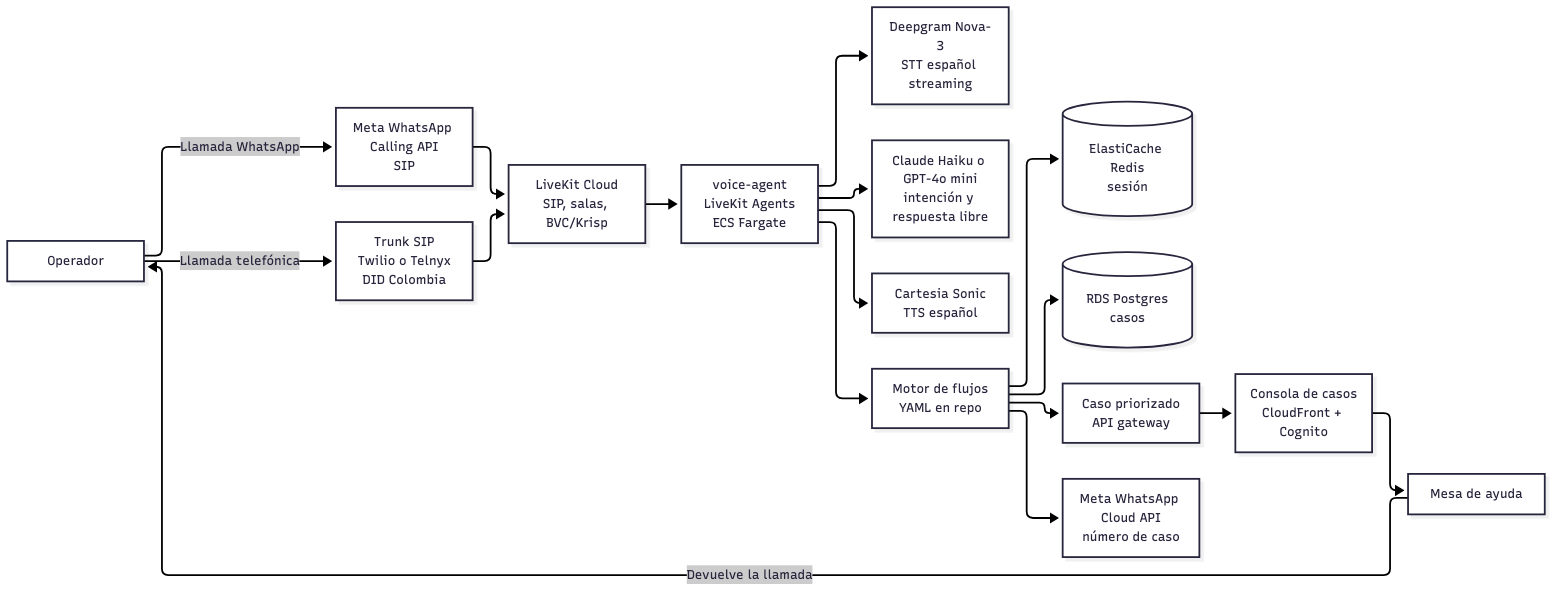
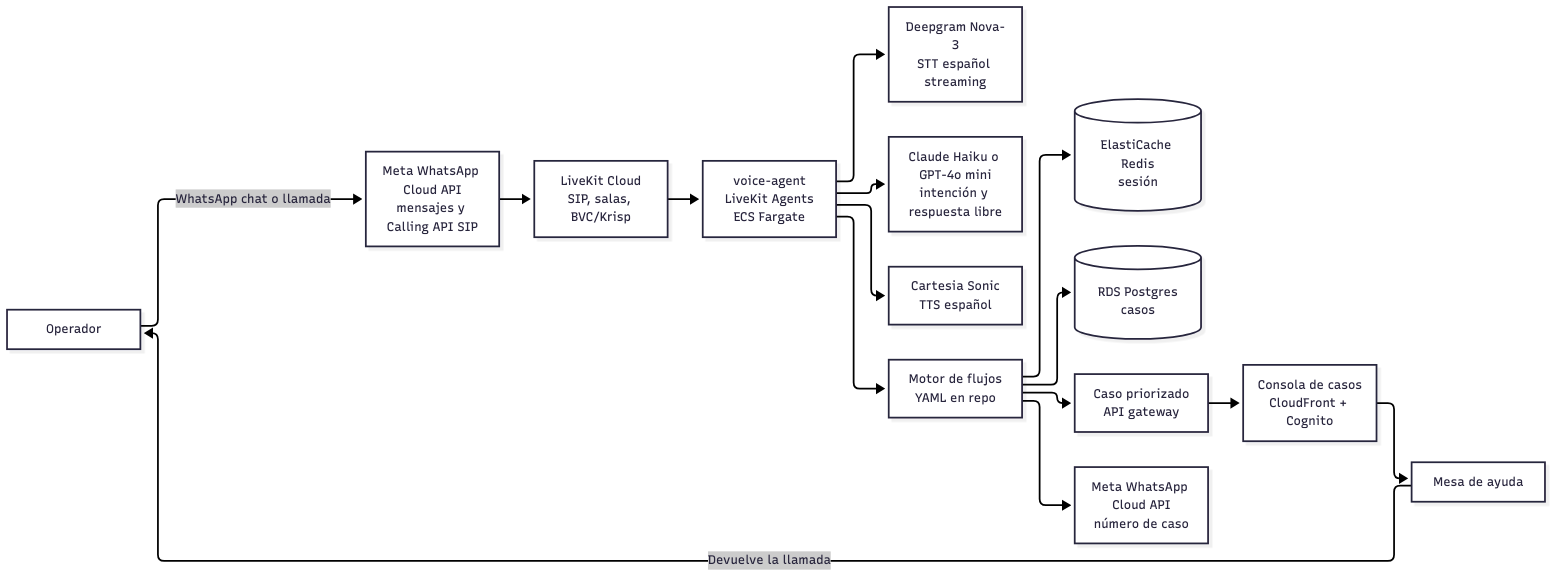
Dejar WhatsApp como único canal de entrada (chat y llamada).
Elimina número telefónico, trunk SIP y DID de diagramas, arquitectura y costos (~US$ 300/mes).

diff --git a/docs/analisis-agente-voz.md b/docs/analisis-agente-voz.md
@@ -12,7 +12,7 @@ El operador está frente a una tableta que no conecta, no enciende o no lo deja 
 
 | Pregunta | Respuesta | Qué cambia |
 | --- | --- | --- |
-| ¿Con qué se comunica el operador? | Celular con minutos y datos. | Entran las dos vías: llamada de WhatsApp y número telefónico. |
+| ¿Con qué se comunica el operador? | Celular con minutos y datos. | Un solo canal: WhatsApp (chat y llamada de voz). |
 | ¿La mesa transfiere llamadas? | No. Atiende los casos directamente. | El agente no depende de una transferencia. Escala con un caso priorizado y la mesa devuelve la llamada. |
 | ¿El audio puede ir a la nube? | Sí, si no es información sensible. | LiveKit Cloud y proveedores en nube. La huella nunca entra; la cédula no pasa por el modelo. |
 
@@ -24,14 +24,7 @@ No es un IVR de menús ni un chat leído en voz alta. Hay tres cosas que lo hace
 
 ## Cómo llega la llamada
 
-Los operadores tienen minutos y datos, así que las dos entradas sirven y van al mismo agente.
-
-| Entrada | Rol | Qué implica |
-| --- | --- | --- |
-| Llamada de WhatsApp al número de soporte | **Principal.** Mismo contacto que el chat. | Meta habilita llamadas iniciadas por el usuario en Colombia y las entrega por SIP. Audio de banda ancha (Opus), sin costo de minutos. El teclado de WhatsApp manda tonos en la llamada, así que la cédula por teclado funciona. Requiere que el número tenga un límite diario de al menos 2.000 destinatarios. |
-| Llamada a un número de Colombia | **Respaldo.** Cuando los datos fallan en la zona o WhatsApp no conecta. | DID colombiano en un trunk SIP. Audio de 8 kHz, que reconoce peor. |
-
-Si el número de WhatsApp todavía no alcanza el límite de 2.000 cuando arranque la prueba, la prueba corre por el número de Colombia y WhatsApp entra en cuanto Meta lo habilite. El agente es el mismo.
+El operador usa un solo contacto de WhatsApp para el chat y para la llamada de voz. Meta habilita llamadas iniciadas por el usuario en Colombia y las entrega por SIP a LiveKit. Audio de banda ancha (Opus), sin costo de minutos. El teclado de WhatsApp manda tonos en la llamada, así que la cédula por teclado funciona. Requiere que el número de WhatsApp tenga un límite diario de al menos 2.000 destinatarios.
 
 ## Una llamada de “sin internet”
 
@@ -83,8 +76,6 @@ Prioridad del caso:
 | No llegó el correo de credenciales | Media, a Dirección de Censo |
 | El operador pidió hablar con una persona sin falla bloqueante | Normal |
 
-Más adelante, si la mesa quiere, el mismo agente puede pasar la llamada en vivo a su número actual. Técnicamente es un desvío a un número de Colombia y no le exige a la mesa una central; no entra en la prueba porque hoy no trabajan así.
-
 La mesa no tiene herramienta de casos. Se propone una consola propia sobre la misma base del agente; detalle y alternativas en [infraestructura.md](infraestructura.md#consola-de-casos).
 
 ## Arquitectura recomendada
@@ -93,10 +84,8 @@ Cadena en streaming: reconocimiento de voz, modelo y síntesis, cada etapa empez
 
 ```mermaid
 flowchart LR
-  OP[Operador] -->|Llamada WhatsApp| META[Meta SIP]
-  OP -->|Llamada telefónica| DID[DID Colombia]
+  OP[Operador] -->|WhatsApp chat o llamada| META[Meta SIP]
   META --> SIP[Servidor SIP]
-  DID --> SIP
   SIP --> AG[Agente de voz]
   AG --> STT[STT español]
   AG --> LLM[LLM: intención y lectura de respuesta]
@@ -116,10 +105,8 @@ Misma lógica que el diagrama anterior, con los productos concretos:
 
 ```mermaid
 flowchart LR
-  OP[Operador] -->|Llamada WhatsApp| META["Meta WhatsApp Calling API<br/>SIP"]
-  OP -->|Llamada telefónica| TRUNK["Trunk SIP<br/>Twilio o Telnyx<br/>DID Colombia"]
+  OP[Operador] -->|WhatsApp chat o llamada| META["Meta WhatsApp Cloud API<br/>mensajes y Calling API SIP"]
   META --> LK["LiveKit Cloud<br/>SIP, salas, BVC/Krisp"]
-  TRUNK --> LK
   LK --> VA["voice-agent<br/>LiveKit Agents<br/>ECS Fargate"]
   VA --> STT["Deepgram Nova-3<br/>STT español streaming"]
   VA --> LLM["Claude Haiku o GPT-4o mini<br/>intención y respuesta libre"]
@@ -138,9 +125,8 @@ Versión en imagen: [diagramas/arquitectura-voz-tecnologias.png](diagramas/arqui
 
 | Genérico | Tecnología | Qué hace |
 | --- | --- | --- |
-| Meta SIP | Meta WhatsApp Calling API (SIP) | Recibe la llamada que el operador inicia desde WhatsApp y la entrega por SIP al agente. Sin costo de minutos. |
-| DID Colombia | Trunk SIP — Twilio o Telnyx | Número telefónico de Colombia para quien llame sin datos o sin WhatsApp. |
-| Servidor SIP | LiveKit Cloud (SIP, salas, BVC/Krisp) | Termina la llamada, mezcla el audio, cancela ruido de fondo y conecta con el agente de voz. |
+| Meta SIP | Meta WhatsApp Calling API (SIP) | Recibe chat y llamada de voz que el operador inicia desde WhatsApp y entrega la llamada por SIP al agente. Sin costo de minutos. |
+| Servidor SIP | LiveKit Cloud (SIP, salas, BVC/Krisp) | Termina la llamada de WhatsApp, mezcla el audio, cancela ruido de fondo y conecta con el agente de voz. |
 | Agente de voz | voice-agent — LiveKit Agents en ECS Fargate | Orquesta cada llamada: escucha, interpreta, habla, lee el teclado y crea el caso. |
 | STT español | Deepgram Nova-3 | Convierte en texto, en vivo, lo que dice el operador. |
 | LLM | Claude Haiku o GPT-4o mini | Clasifica la intención inicial y traduce la respuesta libre a sí, no, no entendí o quiero una persona. |
@@ -183,7 +169,7 @@ La sesión vive en Redis por número de teléfono, con vencimiento de unas horas
 | --- | --- | --- | --- | --- |
 | **A. Cadena propia con LiveKit Agents** | Framework abierto con SIP propio, DTMF, transferencia en frío y asistida, cancelación de ruido. STT, LLM y TTS intercambiables. | Control del flujo, texto en cada turno para auditar y enmascarar, cambio de proveedor sin reescribir. Corre en LiveKit Cloud o en la VPC. | Más piezas que operar que una plataforma cerrada. | **Recomendada para el piloto.** |
 | B. Cadena propia con Pipecat | Framework abierto, pipeline más bajo nivel. | Muy flexible. | Sin servidor SIP propio; por WebSocket del operador no trae transferencias. Para SIP termina apoyándose en Daily o LiveKit. | Alternativa si el equipo ya lo conoce. |
-| C. Voz a voz (gpt-realtime-1.5, Gemini 3.1 Flash Live, Nova 2 Sonic) | Un solo modelo recibe audio y responde audio. | Conversación muy natural, interrupciones finas. Nova 2 Sonic corre en Bedrock y soporta español. | Entrenados con audio web; por teléfono de 8 kHz reconocen peor. No hay texto intermedio para controlar lo que se dice ni para enmascarar. Más caro por minuto. | Experimento, sobre todo para la entrada por WhatsApp. No para el árbol de pasos. |
+| C. Voz a voz (gpt-realtime-1.5, Gemini 3.1 Flash Live, Nova 2 Sonic) | Un solo modelo recibe audio y responde audio. | Conversación muy natural, interrupciones finas. Nova 2 Sonic corre en Bedrock y soporta español. | No hay texto intermedio para controlar lo que se dice ni para enmascarar. Más caro por minuto. | Experimento. No para el árbol de pasos. |
 | D. Plataforma administrada (Retell, Vapi, ElevenLabs Agents) | Se configura el agente en un panel y se conecta un número. | Demo funcionando en días. | El árbol queda dentro del producto, el audio y la transcripción en su nube, menos margen para la espera activa y la continuidad con WhatsApp. | Demo para el cliente antes de construir, si hace falta mostrar algo ya. |
 | E. IVR clásico solo con teclado | Árbol de opciones por DTMF en Asterisk o Amazon Connect. | Robusto en ruido, barato, sin IA. | No acompaña; el operador navega menús. | Modo de respaldo dentro del agente, no producto aparte. |
 
@@ -191,7 +177,7 @@ La A se queda con lo bueno de la E: si el reconocimiento falla dos veces seguida
 
 ## Proveedores de voz
 
-La latencia de punta a punta por teléfono, medida en llamadas reales, anda alrededor de 1,3 s en las plataformas conocidas. Por encima de 1,5 s el operador siente que nadie lo escucha. La síntesis suele ser el cuello de botella, no el modelo.
+La latencia de punta a punta en una llamada de WhatsApp, medida en llamadas reales, anda alrededor de 1,3 s en las plataformas conocidas. Por encima de 1,5 s el operador siente que nadie lo escucha. La síntesis suele ser el cuello de botella, no el modelo.
 
 | Etapa | Candidatos | Criterio |
 | --- | --- | --- |
@@ -247,7 +233,7 @@ Semana 1:
 
 Semana 2:
 
-- Número de Colombia en el agente; llamada de WhatsApp en cuanto Meta la habilite en el número.
+- Número de WhatsApp con llamadas habilitadas hacia LiveKit.
 - Cédula por teclado, espera activa, escalamiento con caso priorizado y número de caso por WhatsApp.
 - Un caso de prueba que la mesa recibe y devuelve, para medir el circuito completo.
 - Diez llamadas en un ambiente ruidoso, medidas con los indicadores de arriba.

diff --git a/docs/infraestructura.md b/docs/infraestructura.md
@@ -8,12 +8,10 @@ Qué hay que tener encendido para el asistente de WhatsApp, el agente de voz y l
 flowchart LR
   subgraph CAMPO["Puesto de inscripción"]
     OPW["Operador<br/>WhatsApp: chat y llamada"]
-    OPT["Operador<br/>llamada telefónica"]
   end
 
-  subgraph CANAL["Canales"]
+  subgraph CANAL["Canal WhatsApp"]
     META["Meta WhatsApp Cloud API<br/>mensajes y llamadas por SIP"]
-    TRUNK["Trunk SIP<br/>número de Colombia"]
     LK["LiveKit Cloud<br/>SIP, salas, ruido"]
   end
 
@@ -43,11 +41,9 @@ flowchart LR
   end
 
   OPW --> META
-  OPT --> TRUNK
   META -->|webhook| ALB --> GW --> SQS --> WRK
   WRK -->|respuestas| META
   META -->|llamada SIP| LK
-  TRUNK --> LK
   LK <-->|audio| VA
   VA --> IA
   WRK --> LLM
@@ -74,8 +70,7 @@ En el dibujo no aparecen Secrets Manager, CloudWatch ni el NAT Gateway, que usan
 | `worker` (ECS Fargate) | Corre la conversación de WhatsApp: motor de flujos, clasificación con el LLM, envío de respuestas, creación de casos. | Escala con la cola, no con el tráfico HTTP. |
 | `voice-agent` (ECS Fargate) | Proceso de LiveKit Agents. Cada llamada es una sesión: escucha, interpreta, habla, lee el teclado, crea el caso. | Se conecta hacia LiveKit Cloud por WebSocket saliente, así que no necesita puertos abiertos ni IP pública. |
 | Motor de flujos | Librería compartida por `worker` y `voice-agent`. Lee los YAML de los tres casos. | Un solo árbol para chat y voz. |
-| LiveKit Cloud | Recibe el SIP de Meta y del trunk, mezcla audio, cancela ruido y despacha la llamada a un `voice-agent` libre. | Evita operar un servidor SIP y media propio en el piloto. |
-| Trunk SIP | Número de Colombia para quien llame sin WhatsApp. | Twilio, Telnyx, Plivo o un operador local; se elige por precio del DID y cobertura. |
+| LiveKit Cloud | Recibe el SIP de las llamadas de WhatsApp, mezcla audio, cancela ruido y despacha la llamada a un `voice-agent` libre. | Evita operar un servidor SIP y media propio en el piloto. |
 | ElastiCache Redis | Sesión por teléfono: caso, paso, intentos. Vence en horas. | Permite retomar si la llamada se corta o si pasa del chat a la voz. |
 | RDS Postgres | Casos, historial enmascarado, versiones de flujos, métricas. | Una sola base para agente, consola e indicadores. |
 | S3 | Fotos de WhatsApp y audio presintetizado de cada paso. Retención acotada. | Los pasos fijos se sintetizan una vez y no suman latencia. |
@@ -103,7 +98,7 @@ Lo que tiene la consola en el piloto:
 - Cola ordenada por prioridad y por tiempo esperando.
 - Detalle del caso: puesto, número que llamó, cédula enmascarada, síntoma, pasos intentados, transcripción y fotos.
 - Tomar el caso, para que dos personas no llamen al mismo operador.
-- Botón de llamar, que abre la llamada normal o la de WhatsApp desde el celular de la mesa. No hace falta telefonía nueva.
+- Botón de llamar por WhatsApp desde el celular de la mesa.
 - Cerrar con causa (resuelto en la llamada, tableta reemplazada, enviado a Censo) y notas.
 - Aviso en el navegador y por correo cuando entra un caso alto.
 - Rol de Dirección de Censo: solo ve los casos de huella y credenciales.
@@ -142,7 +137,7 @@ flowchart LR
   GHA --> AUD["Síntesis de pasos<br/>audios a S3"]
 ```
 
-Dos ambientes: `dev`, compartido y con números de prueba, y `piloto`, con el número real de WhatsApp y el DID. Cuando procesos cambia el texto de un paso, el pipeline vuelve a sintetizar ese audio.
+Dos ambientes: `dev`, compartido y con número de prueba de WhatsApp, y `piloto`, con el número real de WhatsApp y llamadas habilitadas. Cuando procesos cambia el texto de un paso, el pipeline vuelve a sintetizar ese audio.
 
 ## Fuera del piloto
 

diff --git a/docs/costos.md b/docs/costos.md
@@ -2,6 +2,8 @@
 
 Estimación para 15 operadores en campo. Precios de lista consultados el 5 de octubre de 2026, en dólares, sin impuestos, sin desarrollo y sin el ambiente `dev`. Infraestructura en [infraestructura.md](infraestructura.md).
 
+Canal único: **WhatsApp** (chat y llamada de voz). Sin número telefónico ni trunk SIP.
+
 ## Supuestos
 
 | Supuesto | Valor |
@@ -10,10 +12,9 @@ Estimación para 15 operadores en campo. Precios de lista consultados el 5 de oc
 | Días de jornada al mes | 22 |
 | Incidencias por operador por día | 2 |
 | Incidencias al mes | ≈ 660 |
-| Por llamada / por chat | 50 % / 50 % |
+| Por llamada de WhatsApp / por chat | 50 % / 50 % |
 | Duración media de una llamada | 6 min |
 | Minutos de voz al mes | ≈ 2.000 |
-| Llamadas que entran por el número de Colombia | 25 % (≈ 500 min) |
 | Mensajes salientes por conversación de chat | ≈ 12 |
 
 ## Tabla
@@ -36,33 +37,31 @@ Estimación para 15 operadores en campo. Precios de lista consultados el 5 de oc
 | Deepgram Nova-3 streaming | 2.000 min × 0,0077 | 15 |
 | LLM chico | ≈ 9.000 clasificaciones de ≈ 1.000 tokens | 10 |
 | Cartesia, plan Pro | Solo frases dinámicas; los pasos van presintetizados | 7 |
-| **Telefonía y WhatsApp** | | **≈ 62** |
-| Número de Colombia | Alquiler (Twilio 14, Telnyx 13,50) | 14 |
-| Minutos por el número de Colombia | 500 min × 0,09 (entrante Twilio) | 45 |
+| **WhatsApp** | | **≈ 3** |
 | Llamadas de WhatsApp iniciadas por el operador | Sin costo para la empresa | 0 |
 | Mensajes de WhatsApp | 1.000 gratis por número al mes; luego 0,0008 en Colombia | 3 |
-| **Total** | | **≈ 360** |
+| **Total** | | **≈ 300** |
 
-Con un cambio de ≈ 3.340 COP por dólar, son ≈ COP 1,2 millones al mes.
+Con un cambio de ≈ 3.340 COP por dólar, son ≈ COP 1,0 millón al mes.
 
-## Costo por minuto de llamada
+## Costo por minuto de llamada de WhatsApp
 
-| Entrada | Deepgram + LLM + TTS | Telefonía | Total aprox. |
-| --- | ---: | ---: | ---: |
-| Llamada de WhatsApp | 0,02 | 0 | 0,02 |
-| Número de Colombia (Twilio) | 0,02 | 0,09 | 0,11 |
+| Componente | US$ / min aprox. |
+| --- | ---: |
+| Deepgram + LLM + TTS | 0,02 |
+| Telefonía (Meta / LiveKit SIP) | 0 |
+| **Total** | **0,02** |
 
-Los minutos SIP de LiveKit están dentro del plan hasta 5.000 al mes; después suman 0,004 por minuto.
+Los minutos SIP de LiveKit están dentro del plan Ship hasta 5.000 al mes; después suman 0,004 por minuto.
 
 ## Variaciones
 
 | Cambio | Efecto mensual |
 | --- | --- |
-| Número y minutos con Telnyx en lugar de Twilio | Menor; pedir tarifa entrante Colombia |
 | Agente de voz alojado en LiveKit Cloud en lugar de ECS | ≈ −70 (5.000 minutos de agente incluidos en Ship) |
 | Postgres en dos zonas y segundo NAT | ≈ +50 |
 | Ambiente `dev` encendido todo el mes | ≈ +100 a +150 |
-| Duplicar el volumen de llamadas | ≈ +60 (≈ +35 si todo entra por WhatsApp) |
+| Duplicar el volumen de llamadas | ≈ +35 |
 
 ## Fuentes
 
@@ -70,6 +69,4 @@ Los minutos SIP de LiveKit están dentro del plan hasta 5.000 al mes; después s
 - [Deepgram pricing](https://deepgram.com/pricing)
 - [Cartesia pricing](https://www.cartesia.ai/pricing)
 - [WhatsApp Business Platform pricing](https://developers.facebook.com/documentation/business-messaging/whatsapp/pricing)
-- [Twilio Voice Colombia](https://www.twilio.com/en-us/voice/pricing/co)
-- [Telnyx Colombia numbers](https://telnyx.com/phone-numbers/colombia)
 - AWS: tarifas de lista de Fargate, RDS, ElastiCache, ALB, NAT, WAF e IPv4 en us-east-1.

diff --git a/docs/arquitectura-whatsapp-voip.md b/docs/arquitectura-whatsapp-voip.md
@@ -7,7 +7,7 @@ Qué hay que construir y qué hay que dejar desplegado para acompañar al operad
 Un servicio propio (orquestador) con dos adaptadores:
 
 - WhatsApp Cloud API, directo o por un BSP.
-- Voz por SIP (llamada de WhatsApp o número de Colombia) hacia un agente en LiveKit que usa ese mismo orquestador.
+- Llamada de voz por WhatsApp (Meta entrega la llamada por SIP) hacia un agente en LiveKit que usa ese mismo orquestador.
 
 El procedimiento vive en archivos de flujo, no en el prompt. El modelo solo clasifica la intención, saca datos (cédula, puesto, serial) y traduce una frase libre a sí, no, no entendí o quiero un humano.
 
@@ -58,21 +58,15 @@ Un solo ambiente de piloto, con esto encendido:
 | TTS en español | Cartesia Sonic o ElevenLabs Flash, voz latina | Locución corta. Polly queda lento para conversación (800–1.500 ms al primer audio). |
 | Agente de voz | LiveKit Agents en LiveKit Cloud (el cliente acepta nube sin datos sensibles) | SIP, DTMF y cancelación de ruido. Detalle en [analisis-agente-voz.md](analisis-agente-voz.md). |
 | Número de WhatsApp | Meta Business, en verificación desde el día uno | La aprobación del nombre comercial tarda días. |
-| DID Colombia | Trunk SIP o CPaaS con número local | Que la llamada del puesto no sea internacional. |
 | Aviso de grabación | En el saludo de la llamada | Base para conservar el audio. |
 
 La guía offline de la tableta, el tablero completo y el modelo local de CSC no entran en este despliegue. El contenedor queda preparado para cambiar el clasificador a un modelo en la VPC si el cliente lo exige.
 
 ## Cómo entra la llamada
 
-El agente de voz corre en LiveKit Agents y recibe SIP por dos lados:
+El operador llama desde WhatsApp al mismo número de soporte del chat. Meta entrega la llamada por SIP a LiveKit Cloud; el agente de voz corre en LiveKit Agents. Audio de banda ancha, sin costo de minutos. Meta ve la llamada; el resto del procesamiento pasa por LiveKit y nuestros servicios en AWS.
 
-| Entrada | Cuándo conviene | Qué queda afuera de nuestra VPC |
-| --- | --- | --- |
-| Llamada de WhatsApp al número de soporte | El celular tiene datos. Meta entrega la llamada por SIP; mismo número que el chat, audio de banda ancha, sin minutos. | Meta ve la llamada. |
-| DID colombiano en un trunk SIP (Twilio, Telnyx, Plivo o un operador local) | Sin datos, solo señal de voz. | El operador del trunk ve el audio. |
-
-LiveKit Cloud es el arranque más rápido. Si el cliente pide que el audio no salga, el mismo agente se mueve a LiveKit en la VPC con STT y TTS locales, sin cambiar los flujos.
+Si el cliente pide que el audio no salga de su red, el mismo agente se mueve a LiveKit en la VPC con STT y TTS locales, sin cambiar los flujos.
 
 Retell, Vapi o un contact center completo (Amazon Connect, Twilio Flex) aceleran una demo y meten la conversación en un producto que no controla el árbol de pasos. Sirven para mostrar algo en días, no como base de este repo.
 
@@ -87,7 +81,7 @@ Fuera de ese corte: foto del cargador, nota de voz de WhatsApp, reenvío automá
 
 ## Orden de trabajo
 
-La verificación del número de WhatsApp y la compra del DID arrancan en paralelo al código: son el camino crítico, no un cierre.
+La verificación del número de WhatsApp y la habilitación de llamadas arrancan en paralelo al código: es el camino crítico, no un cierre.
 
 1. Dejar los tres flujos escritos y probados en el simulador.
 2. Publicar el webhook y cerrar el caso de conectividad por WhatsApp de punta a punta.

diff --git a/README.md b/README.md
@@ -15,10 +15,10 @@ Asistente de nivel 1 para operadores de puestos de inscripción. El canal de ayu
 
 ## Alcance de arranque
 
-Dos canales sobre el mismo flujo guiado:
+Un solo canal, WhatsApp, con dos modos sobre el mismo flujo guiado:
 
-1. WhatsApp (texto, y después foto y nota de voz).
-2. Llamada VoIP con un agente de voz que acompaña paso a paso.
+1. Chat (texto, y después foto y nota de voz).
+2. Llamada de voz con un agente que acompaña paso a paso.
 
 Casos cubiertos: primer logueo, tableta sin internet, tableta dañada o no disponible.
 

diff --git a/docs/analisis.md b/docs/analisis.md
@@ -52,7 +52,7 @@ El arranque que se va a construir incluye desde el comienzo WhatsApp y el agente
 
 ## Respondido por el cliente (5 oct 2026)
 
-- El operador llama a la mesa desde un celular con minutos y datos.
+- El operador se comunica por WhatsApp (chat y llamada) desde un celular con datos.
 - La mesa atiende los casos; hoy no transfiere llamadas.
 - Se puede usar nube siempre que no viaje información sensible.
 
